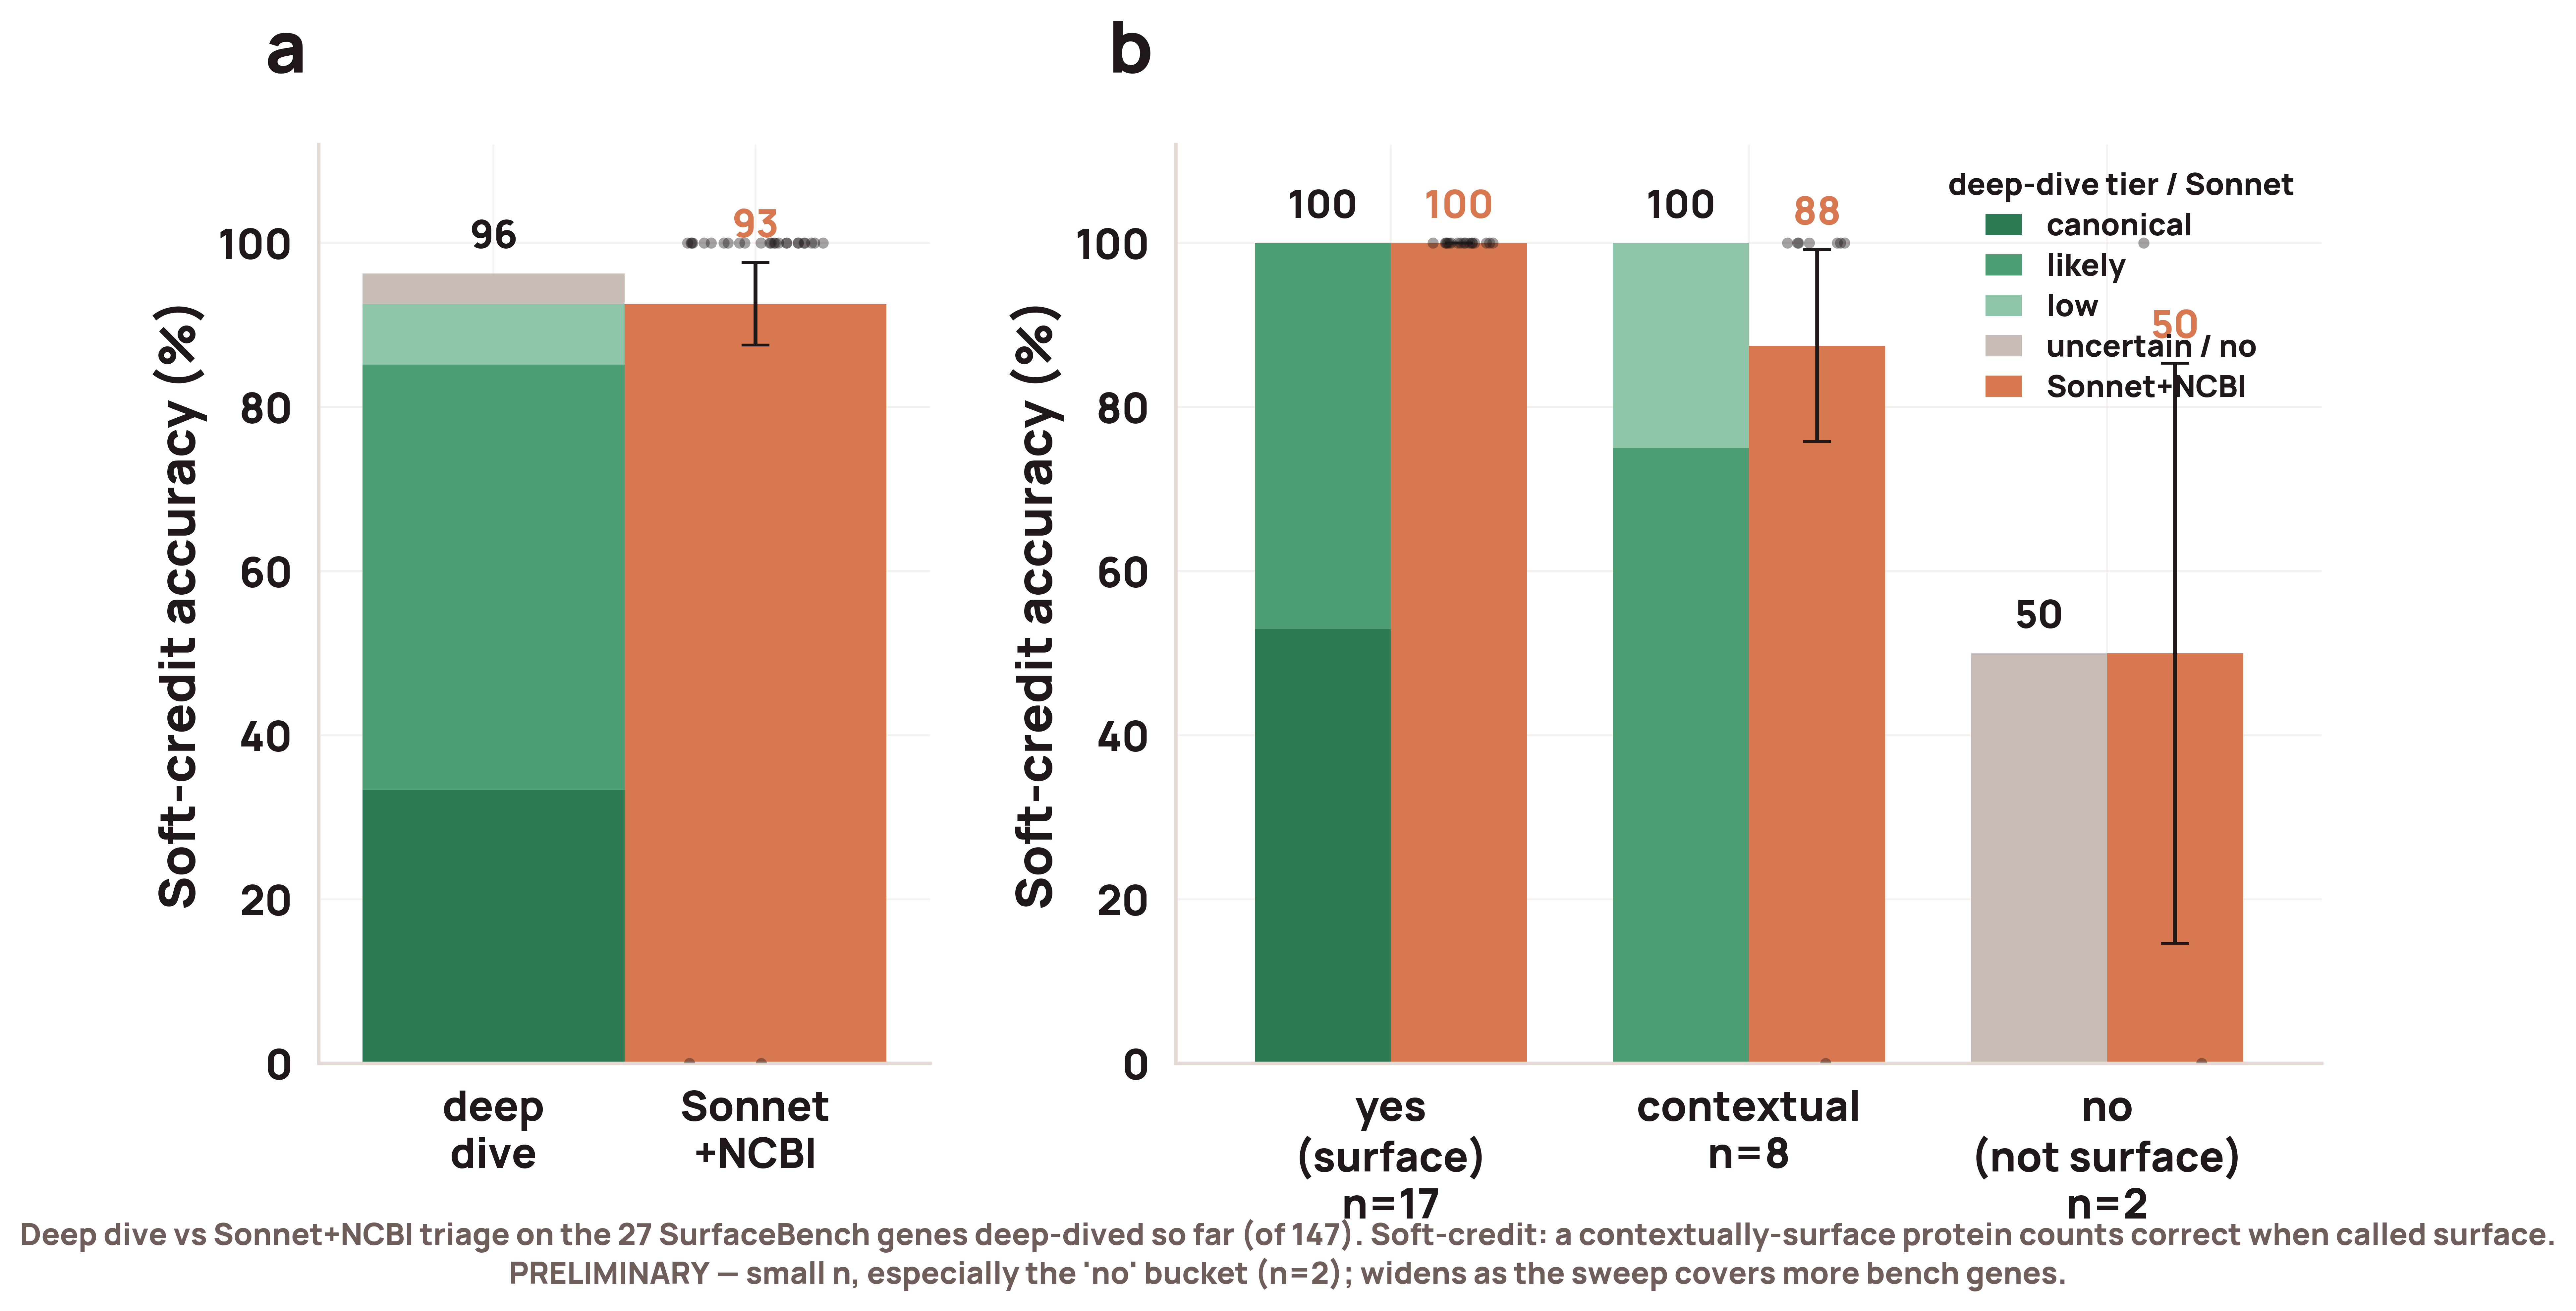
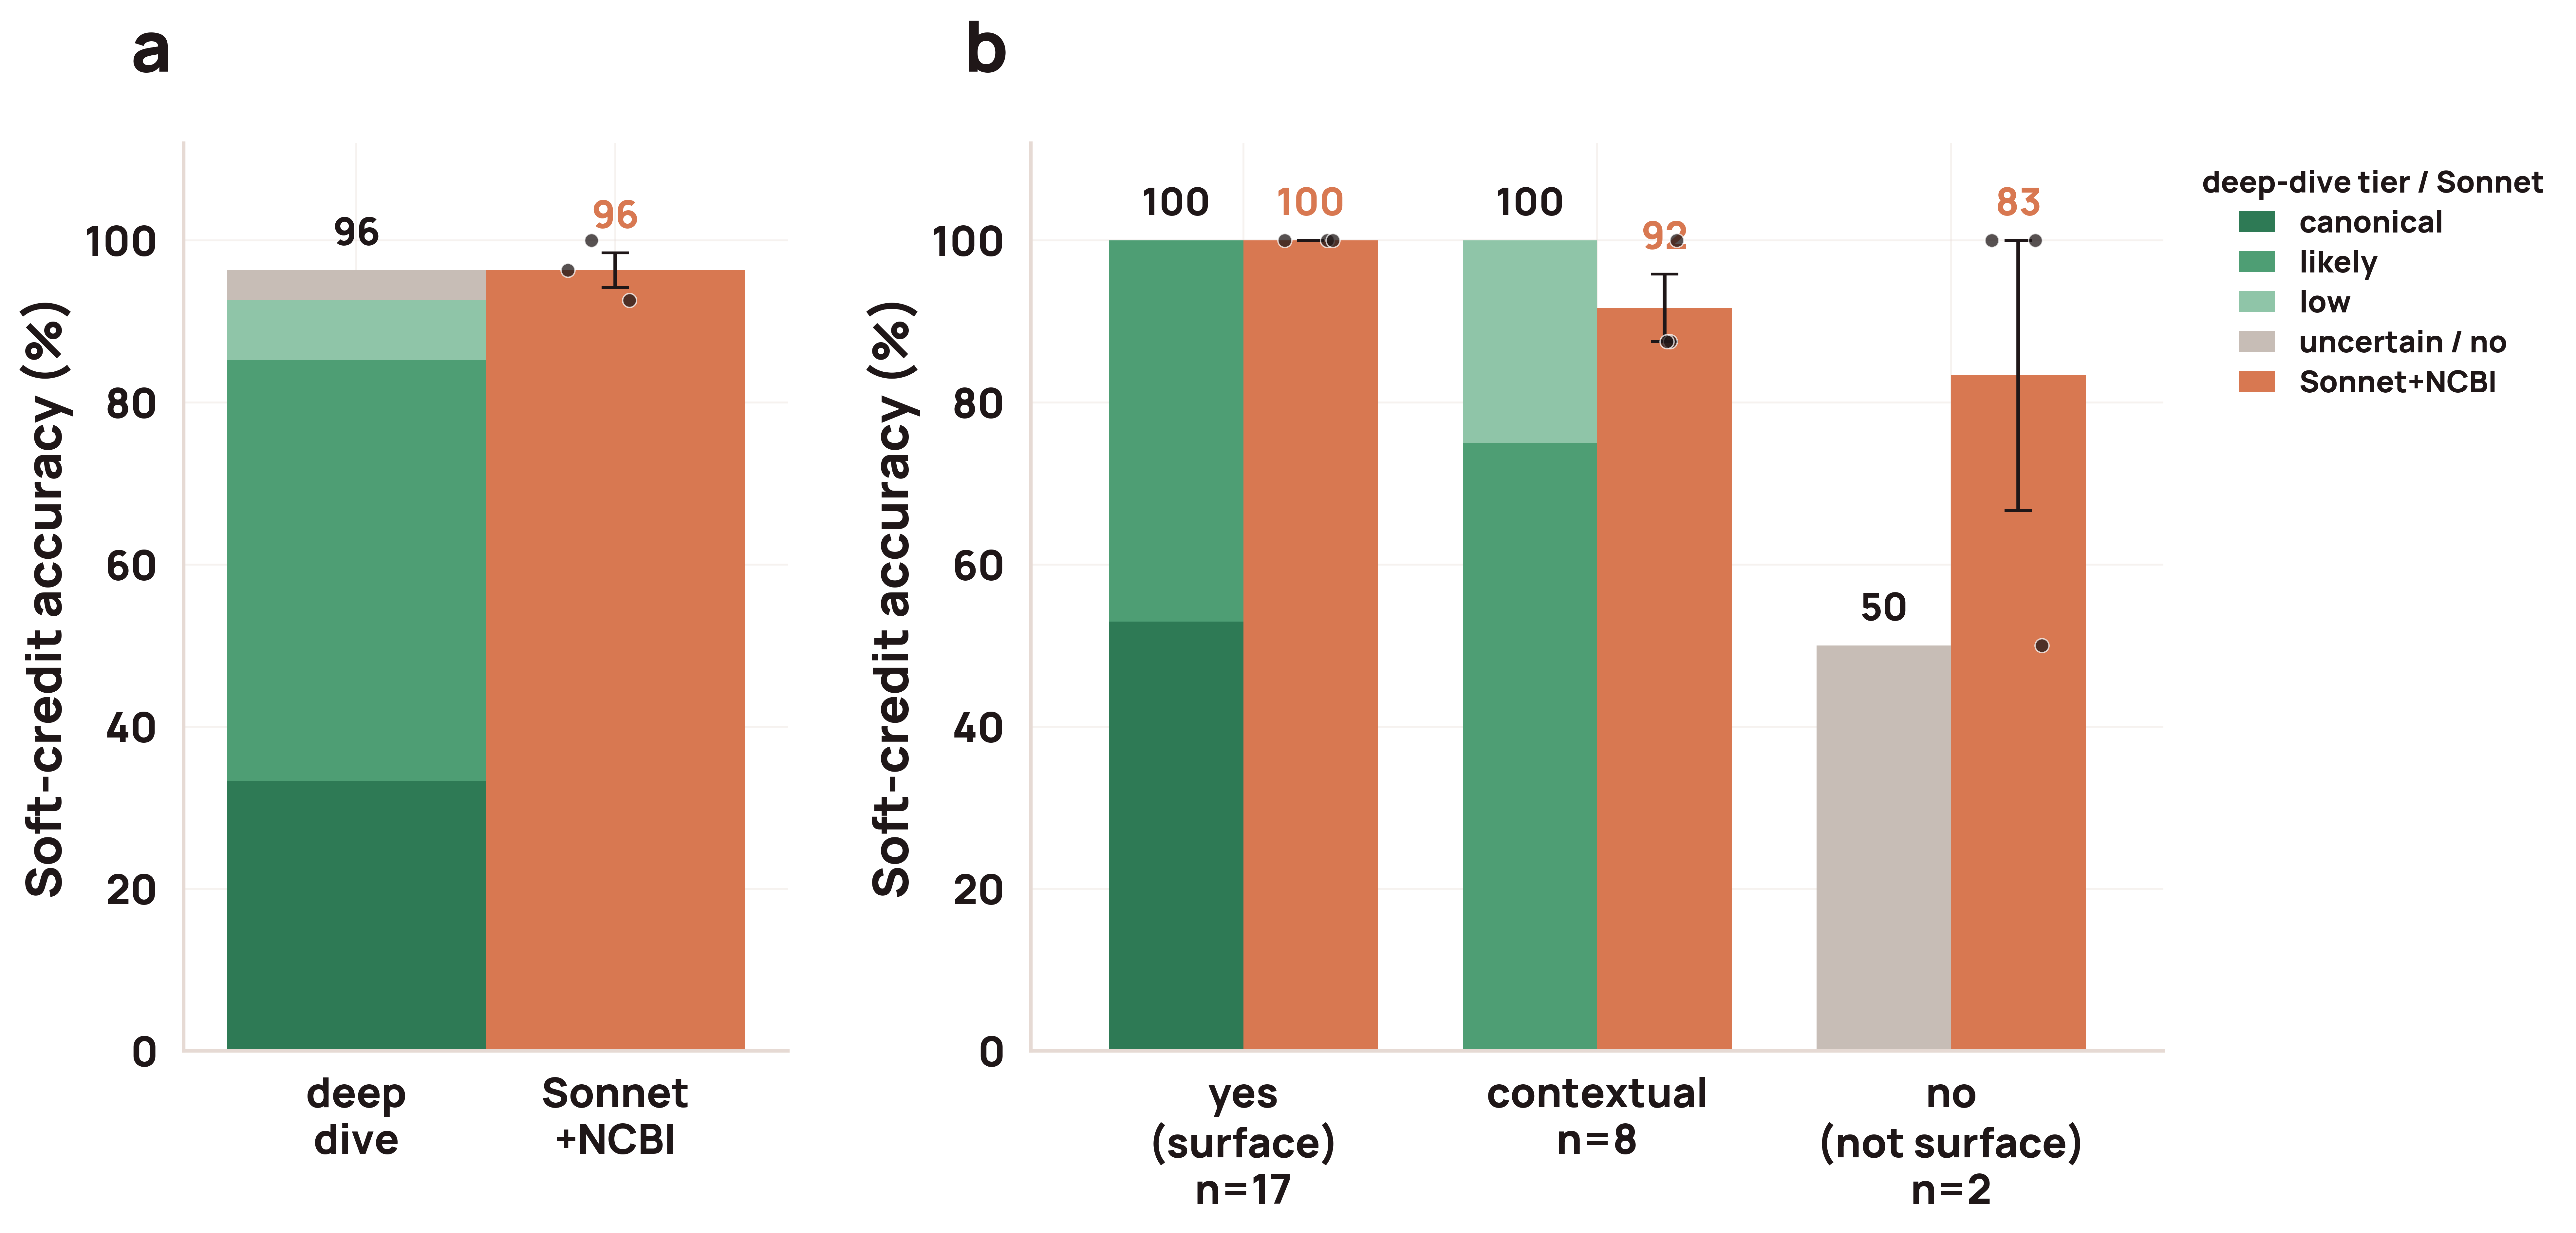
fix(audit): benchmark fig Sonnet = per-replicate dots + SEM; drop footer
Sonnet+NCBI accuracy is now the MEAN of the 3 mainbench replicate accuracies
with one dot per replicate + SEM ACROSS replicates (was a meaningless 0/1 dot
per gene). New per-replicate export (benchmark_sonnet_replicates.tsv from
mainbench_canonical_v2/sonnet-4-6/ncbi) -> builder joins sonnet_correct_r1/2/3.
Overall Sonnet 93/100/96 -> 96% mean; the 'no' bucket honestly shows the 50/100/100
replicate spread. Removed the explanatory footer; tier legend moved just outside
the top-right so it clears the bars.

diff --git a/paper/figure_tsv_spotcheck.html b/paper/figure_tsv_spotcheck.html
@@ -191,8 +191,8 @@ Generated by <code>scripts/build_figure_index.py</code>.
 <div class="figrow">
 <div class="figthumb"><img src="../data/analysis/figures/deep_dive_vs_sonnet_benchmark.png" alt="deep_dive_vs_sonnet_benchmark" loading="lazy"></div>
 <div class="figdata">
-<p class="meta"><code>deep_dive_vs_sonnet_benchmark.tsv</code> · 13 cols · 27 rows · 2.1 KB · <code>data/processed/figures/deep_dive_vs_sonnet_benchmark.tsv</code></p>
-<table><thead><tr><th>gene_symbol</th><th>hgnc_id</th><th>uniprot_acc</th><th>ensembl_gene</th><th>ncbi_gene_id</th><th>ground_truth_verdict</th><th>sonnet_verdict</th><th>deep_dive_tier</th><th>gt_surface</th><th>sonnet_surface</th><th>deep_dive_surface</th><th>sonnet_correct</th><th>deep_dive_correct</th></tr></thead><tbody><tr><td>ALPG</td><td>HGNC:441</td><td>P10696</td><td>ENSG00000163286</td><td>251</td><td>contextual</td><td>contextual</td><td>likely</td><td>1</td><td>1</td><td>1</td><td>1</td><td>1</td></tr><tr><td>ATP5F1B</td><td>HGNC:830</td><td>P06576</td><td>ENSG00000110955</td><td>506</td><td>contextual</td><td>contextual</td><td>likely</td><td>1</td><td>1</td><td>1</td><td>1</td><td>1</td></tr><tr><td>B4GALT1</td><td>HGNC:924</td><td>P15291</td><td>ENSG00000086062</td><td>2683</td><td>contextual</td><td>contextual</td><td>low</td><td>1</td><td>1</td><td>1</td><td>1</td><td>1</td></tr><tr><td>C3</td><td>HGNC:1318</td><td>P01024</td><td>ENSG00000125730</td><td>718</td><td>contextual</td><td>no</td><td>likely</td><td>1</td><td>0</td><td>1</td><td>0</td><td>1</td></tr><tr><td>CALR</td><td>HGNC:1455</td><td>P27797</td><td>ENSG00000179218</td><td>811</td><td>contextual</td><td>contextual</td><td>likely</td><td>1</td><td>1</td><td>1</td><td>1</td><td>1</td></tr><tr><td>CD63</td><td>HGNC:1692</td><td>P08962</td><td>ENSG00000135404</td><td>967</td><td>contextual</td><td>contextual</td><td>likely</td><td>1</td><td>1</td><td>1</td><td>1</td><td>1</td></tr><tr><td>CD68</td><td>HGNC:1693</td><td>P34810</td><td>ENSG00000129226</td><td>968</td><td>contextual</td><td>contextual</td><td>likely</td><td>1</td><td>1</td><td>1</td><td>1</td><td>1</td></tr><tr><td>CRISP1</td><td>HGNC:304</td><td>P54107</td><td>ENSG00000124812</td><td>167</td><td>contextual</td><td>contextual</td><td>low</td><td>1</td><td>1</td><td>1</td><td>1</td><td>1</td></tr><tr><td>ABCB9</td><td>HGNC:50</td><td>Q9NP78</td><td>ENSG00000150967</td><td>23457</td><td>no</td><td>contextual</td><td>no</td><td>0</td><td>1</td><td>0</td><td>0</td><td>1</td></tr><tr><td>ATG9A</td><td>HGNC:22408</td><td>Q7Z3C6</td><td>ENSG00000198925</td><td>79065</td><td>no</td><td>no</td><td>likely</td><td>0</td><td>0</td><td>1</td><td>1</td><td>0</td></tr></tbody></table>
+<p class="meta"><code>deep_dive_vs_sonnet_benchmark.tsv</code> · 16 cols · 27 rows · 2.3 KB · <code>data/processed/figures/deep_dive_vs_sonnet_benchmark.tsv</code></p>
+<table><thead><tr><th>gene_symbol</th><th>hgnc_id</th><th>uniprot_acc</th><th>ensembl_gene</th><th>ncbi_gene_id</th><th>ground_truth_verdict</th><th>sonnet_verdict</th><th>deep_dive_tier</th><th>gt_surface</th><th>sonnet_surface</th><th>deep_dive_surface</th><th>sonnet_correct</th><th>deep_dive_correct</th><th>sonnet_correct_r1</th><th>sonnet_correct_r2</th><th>sonnet_correct_r3</th></tr></thead><tbody><tr><td>ALPG</td><td>HGNC:441</td><td>P10696</td><td>ENSG00000163286</td><td>251</td><td>contextual</td><td>contextual</td><td>likely</td><td>1</td><td>1</td><td>1</td><td>1</td><td>1</td><td>1</td><td>1</td><td>1</td></tr><tr><td>ATP5F1B</td><td>HGNC:830</td><td>P06576</td><td>ENSG00000110955</td><td>506</td><td>contextual</td><td>contextual</td><td>likely</td><td>1</td><td>1</td><td>1</td><td>1</td><td>1</td><td>1</td><td>1</td><td>0</td></tr><tr><td>B4GALT1</td><td>HGNC:924</td><td>P15291</td><td>ENSG00000086062</td><td>2683</td><td>contextual</td><td>contextual</td><td>low</td><td>1</td><td>1</td><td>1</td><td>1</td><td>1</td><td>1</td><td>1</td><td>1</td></tr><tr><td>C3</td><td>HGNC:1318</td><td>P01024</td><td>ENSG00000125730</td><td>718</td><td>contextual</td><td>no</td><td>likely</td><td>1</td><td>0</td><td>1</td><td>0</td><td>1</td><td>0</td><td>1</td><td>1</td></tr><tr><td>CALR</td><td>HGNC:1455</td><td>P27797</td><td>ENSG00000179218</td><td>811</td><td>contextual</td><td>contextual</td><td>likely</td><td>1</td><td>1</td><td>1</td><td>1</td><td>1</td><td>1</td><td>1</td><td>1</td></tr><tr><td>CD63</td><td>HGNC:1692</td><td>P08962</td><td>ENSG00000135404</td><td>967</td><td>contextual</td><td>contextual</td><td>likely</td><td>1</td><td>1</td><td>1</td><td>1</td><td>1</td><td>1</td><td>1</td><td>1</td></tr><tr><td>CD68</td><td>HGNC:1693</td><td>P34810</td><td>ENSG00000129226</td><td>968</td><td>contextual</td><td>contextual</td><td>likely</td><td>1</td><td>1</td><td>1</td><td>1</td><td>1</td><td>1</td><td>1</td><td>1</td></tr><tr><td>CRISP1</td><td>HGNC:304</td><td>P54107</td><td>ENSG00000124812</td><td>167</td><td>contextual</td><td>contextual</td><td>low</td><td>1</td><td>1</td><td>1</td><td>1</td><td>1</td><td>1</td><td>1</td><td>1</td></tr><tr><td>ABCB9</td><td>HGNC:50</td><td>Q9NP78</td><td>ENSG00000150967</td><td>23457</td><td>no</td><td>contextual</td><td>no</td><td>0</td><td>1</td><td>0</td><td>0</td><td>1</td><td>0</td><td>1</td><td>1</td></tr><tr><td>ATG9A</td><td>HGNC:22408</td><td>Q7Z3C6</td><td>ENSG00000198925</td><td>79065</td><td>no</td><td>no</td><td>likely</td><td>0</td><td>0</td><td>1</td><td>1</td><td>0</td><td>1</td><td>1</td><td>1</td></tr></tbody></table>
 </div>
 </div>
 <h2>Supp S13 — <code>triage_vs_deep_dive_reason</code></h2>

diff --git a/scripts/deep_dive_vs_sonnet_benchmark.py b/scripts/deep_dive_vs_sonnet_benchmark.py
@@ -90,18 +90,32 @@ def _panel_label(ax, letter: str) -> None:
             fontweight=800, va="bottom", ha="right", color=COLORS["dark"])
 
 
+def _sonnet_replicate_accs(rows: list[dict]) -> list[float]:
+    """Per-replicate soft-credit accuracy (%) over the given genes — one value
+    per replicate with data (the mainbench Sonnet+NCBI triage ran 3 replicates)."""
+    accs = []
+    for col in ("sonnet_correct_r1", "sonnet_correct_r2", "sonnet_correct_r3"):
+        vals = [int(row[col]) for row in rows if str(row.get(col, "")) != ""]
+        if vals:
+            accs.append(100.0 * sum(vals) / len(vals))
+    return accs
+
+
 def _draw_sonnet(ax, rows: list[dict], x: float, width: float) -> None:
-    """Sonnet+NCBI accuracy bar + binomial-SEM error bar + jittered per-gene
-    correctness dots."""
-    son, son_sem, son_pts = _stats(rows, "sonnet_correct")
-    ax.bar(x, son, width=width, color=_SONNET_COLOR, zorder=2)
-    ax.errorbar(x, son, yerr=son_sem, fmt="none", ecolor=COLORS["dark"],
+    """Sonnet+NCBI bar = MEAN of the per-replicate accuracies; one dot per
+    replicate + SEM ACROSS replicates (not a 0/1 dot per gene)."""
+    accs = _sonnet_replicate_accs(rows)
+    if not accs:
+        return
+    mean = sum(accs) / len(accs)
+    sem = float(np.std(accs, ddof=1)) / (len(accs) ** 0.5) if len(accs) > 1 else 0.0
+    ax.bar(x, mean, width=width, color=_SONNET_COLOR, zorder=2)
+    ax.errorbar(x, mean, yerr=sem, fmt="none", ecolor=COLORS["dark"],
                 elinewidth=1.4, capsize=5, zorder=4)
-    if son_pts:
-        jx = _RNG.uniform(-width * 0.26, width * 0.26, size=len(son_pts))
-        ax.scatter(x + jx, son_pts, s=16, color=COLORS["dark"], alpha=0.4,
-                   edgecolor="none", zorder=5)
-    ax.text(x, son + son_sem + 2, f"{son:.0f}", ha="center", va="bottom",
+    jx = _RNG.uniform(-width * 0.20, width * 0.20, size=len(accs))
+    ax.scatter(x + jx, accs, s=26, color=COLORS["dark"], alpha=0.75,
+               edgecolor="white", linewidth=0.5, zorder=5)
+    ax.text(x, mean + sem + 2, f"{mean:.0f}", ha="center", va="bottom",
             fontsize=14, color=_SONNET_COLOR, fontweight="bold")
 
 
@@ -132,7 +146,6 @@ def make_plot() -> tuple[plt.Figure, tuple[plt.Axes, plt.Axes]]:
         "xtick.labelsize": 15, "ytick.labelsize": 15, "legend.fontsize": 15,
     })
     rows = _load()
-    n = len(rows)
 
     fig, (axA, axB) = plt.subplots(
         1, 2, figsize=(13, 6),
@@ -171,22 +184,14 @@ def make_plot() -> tuple[plt.Figure, tuple[plt.Axes, plt.Axes]]:
     handles = [mpatches.Patch(color=_TIER_COLOR[t], label=_TIER_LABEL[t])
                for t in _TIER_ORDER]
     handles.append(mpatches.Patch(color=_SONNET_COLOR, label="Sonnet+NCBI"))
-    axB.legend(handles=handles, loc="upper right", frameon=False, fontsize=11,
-               title="deep-dive tier / Sonnet", title_fontsize=11,
-               labelspacing=0.35, handlelength=1.2)
+    # Just outside the top-right so it clears the tall bars + Sonnet dots.
+    axB.legend(handles=handles, loc="upper left", bbox_to_anchor=(1.01, 1.0),
+               frameon=False, fontsize=11, title="deep-dive tier / Sonnet",
+               title_fontsize=11, labelspacing=0.35, handlelength=1.2)
     sns.despine(ax=axB, top=True, right=True)
     _panel_label(axB, "b")
 
-    fig.text(
-        0.5, -0.02,
-        f"Deep dive vs Sonnet+NCBI triage on the {n} SurfaceBench genes "
-        f"deep-dived so far (of 147). Soft-credit: a contextually-surface protein "
-        f"counts correct when called surface. PRELIMINARY — small n, especially "
-        f"the 'no' bucket (n=2); widens as the sweep covers more bench genes.",
-        ha="center", va="top", fontsize=11, style="italic",
-        color=COLORS["neutral"], wrap=True,
-    )
-    fig.tight_layout()
+    fig.tight_layout(rect=(0, 0, 0.84, 1))
     return fig, (axA, axB)
 
 

diff --git a/scripts/export_deep_dive_figure_source.py b/scripts/export_deep_dive_figure_source.py
@@ -45,6 +45,15 @@ TRIAGE_OUT = ROOT / "data/processed/deep_dive/triage_verdicts.tsv"
 # reasons are directly comparable in the S12 confusion matrix.
 _TRIAGE_RUN_ID = "genome_full_sonnet_ncbi_v2"
 
+# Per-replicate benchmark Sonnet+NCBI triage (the mainbench run, 3 replicates
+# per gene) for the deep_dive_vs_sonnet_benchmark figure — its Sonnet accuracy
+# bar shows one dot per replicate + SEM across them, matching the other accuracy
+# figures. One row per (bench gene x replicate).
+BENCH_SONNET_OUT = ROOT / "data/processed/deep_dive/benchmark_sonnet_replicates.tsv"
+_MAINBENCH_RUN = "mainbench_canonical_v2"
+_MAINBENCH_MODEL = "claude-sonnet-4-6"
+_MAINBENCH_VARIANT = "ncbi"
+
 # (output column, JSON path in annotation_json). Kept small + explicit so the
 # query ships only what the figures need.
 _FIELDS: list[tuple[str, str]] = [
@@ -183,11 +192,27 @@ def _triage_sql() -> str:
     )
 
 
+def _bench_sonnet_sql() -> str:
+    """One row per (bench gene x replicate) from the mainbench Sonnet+NCBI run —
+    the per-replicate triage predictions the benchmark figure aggregates into an
+    accuracy dot per replicate + SEM across replicates."""
+    return (
+        "SELECT gene_symbol, replicate, predicted_verdict "
+        "FROM triage_run_public "
+        "WHERE run_id = ? AND model = ? AND prompt_variant = ? "
+        "ORDER BY gene_symbol, replicate;"
+    )
+
+
 def main() -> int:
     load_env()
     with D1Client(D1Config.from_env_public()) as d1:
         rows = d1.query(_select_sql(), [])
         triage_rows = d1.query(_triage_sql(), [_TRIAGE_RUN_ID])
+        bench_sonnet_rows = d1.query(
+            _bench_sonnet_sql(),
+            [_MAINBENCH_RUN, _MAINBENCH_MODEL, _MAINBENCH_VARIANT],
+        )
     df = pd.DataFrame(rows)
     OUT.parent.mkdir(parents=True, exist_ok=True)
     df.to_csv(OUT, sep="\t", index=False)
@@ -197,6 +222,11 @@ def main() -> int:
     triage.to_csv(TRIAGE_OUT, sep="\t", index=False)
     print(f"wrote {TRIAGE_OUT.relative_to(ROOT)}: {len(triage)} triage verdicts "
           f"(run_id={_TRIAGE_RUN_ID})")
+
+    bench_sonnet = pd.DataFrame(bench_sonnet_rows)
+    bench_sonnet.to_csv(BENCH_SONNET_OUT, sep="\t", index=False)
+    print(f"wrote {BENCH_SONNET_OUT.relative_to(ROOT)}: {len(bench_sonnet)} bench "
+          f"Sonnet replicate cells ({_MAINBENCH_RUN}/{_MAINBENCH_MODEL}/{_MAINBENCH_VARIANT})")
     return 0
 
 

diff --git a/scripts/build_figure_tsvs.py b/scripts/build_figure_tsvs.py
@@ -626,7 +626,8 @@ def build_deep_dive_vs_sonnet_benchmark(src: dict[str, pd.DataFrame]) -> pd.Data
     cols = ["gene_symbol", "hgnc_id", "uniprot_acc", "ensembl_gene",
             "ncbi_gene_id", "ground_truth_verdict", "sonnet_verdict",
             "deep_dive_tier", "gt_surface", "sonnet_surface",
-            "deep_dive_surface", "sonnet_correct", "deep_dive_correct"]
+            "deep_dive_surface", "sonnet_correct", "deep_dive_correct",
+            "sonnet_correct_r1", "sonnet_correct_r2", "sonnet_correct_r3"]
     bench = src.get("bench")
     dd = src.get("deep_dive")
     if bench is None or dd is None or dd.empty:
@@ -636,6 +637,16 @@ def build_deep_dive_vs_sonnet_benchmark(src: dict[str, pd.DataFrame]) -> pd.Data
     dd_u["gene_symbol"] = dd_u["gene_symbol"].astype(str)
     dd_by_gene = dd_u.set_index("gene_symbol")
     dd_genes = set(dd_by_gene.index)
+    # Per-replicate Sonnet+NCBI predictions (mainbench, 3 reps/gene) so the
+    # figure shows one accuracy dot per replicate + SEM across them, not a
+    # meaningless 0/1 dot per gene.
+    rep_by_gene: dict[str, dict[int, str]] = {}
+    rep_path = ROOT / "data/processed/deep_dive/benchmark_sonnet_replicates.tsv"
+    if rep_path.is_file():
+        reps = pd.read_csv(rep_path, sep="\t")
+        for _, rr in reps.iterrows():
+            rep_by_gene.setdefault(str(rr["gene_symbol"]), {})[
+                int(rr["replicate"])] = str(rr["predicted_verdict"])
     rows = []
     for _, br in bench.iterrows():
         g = str(br["gene_symbol"])
@@ -645,6 +656,9 @@ def build_deep_dive_vs_sonnet_benchmark(src: dict[str, pd.DataFrame]) -> pd.Data
         gt_s = str(br["ground_truth_verdict"]) in yc
         son_s = str(br["sonnet_verdict"]) in yc
         dd_s = tier in ("canonical", "likely", "low")
+        reps_g = rep_by_gene.get(g, {})
+        rep_correct = {r: (int((reps_g[r] in yc) == gt_s) if r in reps_g else "")
+                       for r in (1, 2, 3)}
         rows.append({
             "gene_symbol": g,
             "hgnc_id": br.get("hgnc_id", ""),
@@ -659,6 +673,9 @@ def build_deep_dive_vs_sonnet_benchmark(src: dict[str, pd.DataFrame]) -> pd.Data
             "deep_dive_surface": int(dd_s),
             "sonnet_correct": int(son_s == gt_s),
             "deep_dive_correct": int(dd_s == gt_s),
+            "sonnet_correct_r1": rep_correct[1],
+            "sonnet_correct_r2": rep_correct[2],
+            "sonnet_correct_r3": rep_correct[3],
         })
     return pd.DataFrame(rows, columns=cols).sort_values(
         ["ground_truth_verdict", "gene_symbol"], kind="stable"

diff --git a/paper/figure_index.md b/paper/figure_index.md
@@ -22,7 +22,7 @@ Generated by `scripts/build_figure_index.py`. One row per figure in document ord
 | **Supp S9** | `topology_coverage_by_source` | [gist](https://gist.github.com/beccajcarlson/95b0f4cdcaf6a6b91f57539cd1515a25) · `swh:1:rev:f70aa429980f233c883090a24c8709bf7b4a5748` | `topology_coverage_by_source.tsv` (6,585 rows · 2929.2 KB) |
 | **Supp S10** | `paywall_bot_block_compare` | [gist](https://gist.github.com/beccajcarlson/cbc950dad1c3a6595fd5018cdb6b030d) · `swh:1:rev:8ab41cc6ef790b01df229633fd35a6ef2a19e958` | `paywall_bot_block_compare.tsv` (1,989 rows · 504.4 KB) |
 | **Supp S11** | `evidence_corpus_vs_selected` | [gist](https://gist.github.com/beccajcarlson/cb550702344d7626ee80804bc7f6c549) · `swh:1:rev:d5bf02cdf13023ed4c7f4f06fe4749b365e0161e` | `evidence_corpus_vs_selected.tsv` (1,175 rows · 46.6 KB) |
-| **Supp S12** | `deep_dive_vs_sonnet_benchmark` | _(pending publication)_ | `deep_dive_vs_sonnet_benchmark.tsv` (27 rows · 2.1 KB) |
+| **Supp S12** | `deep_dive_vs_sonnet_benchmark` | _(pending publication)_ | `deep_dive_vs_sonnet_benchmark.tsv` (27 rows · 2.3 KB) |
 | **Supp S13** | `triage_vs_deep_dive_reason` | [gist](https://gist.github.com/beccajcarlson/152a4d8b4a1d156e2afaa73d205294b6) · `swh:1:rev:63180540e9cdd254a9491da4dbcfce5b0b046b0a` | `triage_vs_deep_dive_reason.tsv` (1,175 rows · 93.6 KB) |
 | **Supp S14** | `surfaceome_deterministic_features_placeholder` | [gist](https://gist.github.com/beccajcarlson/57cf3cc3db903ab39bc0ba315ce5e4d5) · `swh:1:rev:d45a58ba2b179398a6a5f329f9ac7ae16dd3828b` | `surfaceome_deterministic_features_placeholder.tsv` (1,175 rows · 46.8 KB) |
 
@@ -193,7 +193,7 @@ Generated by `scripts/build_figure_index.py`. One row per figure in document ord
 ## Supp S12 — `deep_dive_vs_sonnet_benchmark`
 
 - **Gist:** _(pending publication)_
-- **Bundled TSV:** `deep_dive_vs_sonnet_benchmark.tsv` (27 rows · 2.1 KB)
+- **Bundled TSV:** `deep_dive_vs_sonnet_benchmark.tsv` (27 rows · 2.3 KB)
 
 **On the SurfaceBench genes deep-dived so far, the evidence-anchored deep dive matches or slightly beats the upstream Sonnet+NCBI triage against the curated ground truth.** For the 27 of 147 benchmark genes deep-dived to date, each panel scores both predictors with soft credit — a contextually-surface protein counts correct when called surface — against the curated ground-truth verdict. (a) Overall accuracy: the deep dive is correct on 96% of the 27 genes versus 93% for Sonnet+NCBI on the same genes. (b) Accuracy split by ground-truth bucket: both are perfect on the clear-surface (yes) genes (n=17); the deep dive's edge is on the context-dependent (contextual) genes (100% versus 88%, n=8), where reading the full text resolves the state-dependence the triage can only guess at; both miss one of the two not-surface (no) genes. The deep-dive verdict counts as surface when its tier is canonical, likely, or low (otherwise not-surface); Sonnet and the ground truth count as surface when yes or contextual. PRELIMINARY: only 27 of 147 bench genes are deep-dived and the no bucket is n=2, so read these as an early signal rather than a stable rate; the comparison widens and stabilizes as the sweep covers more benchmark genes.
 